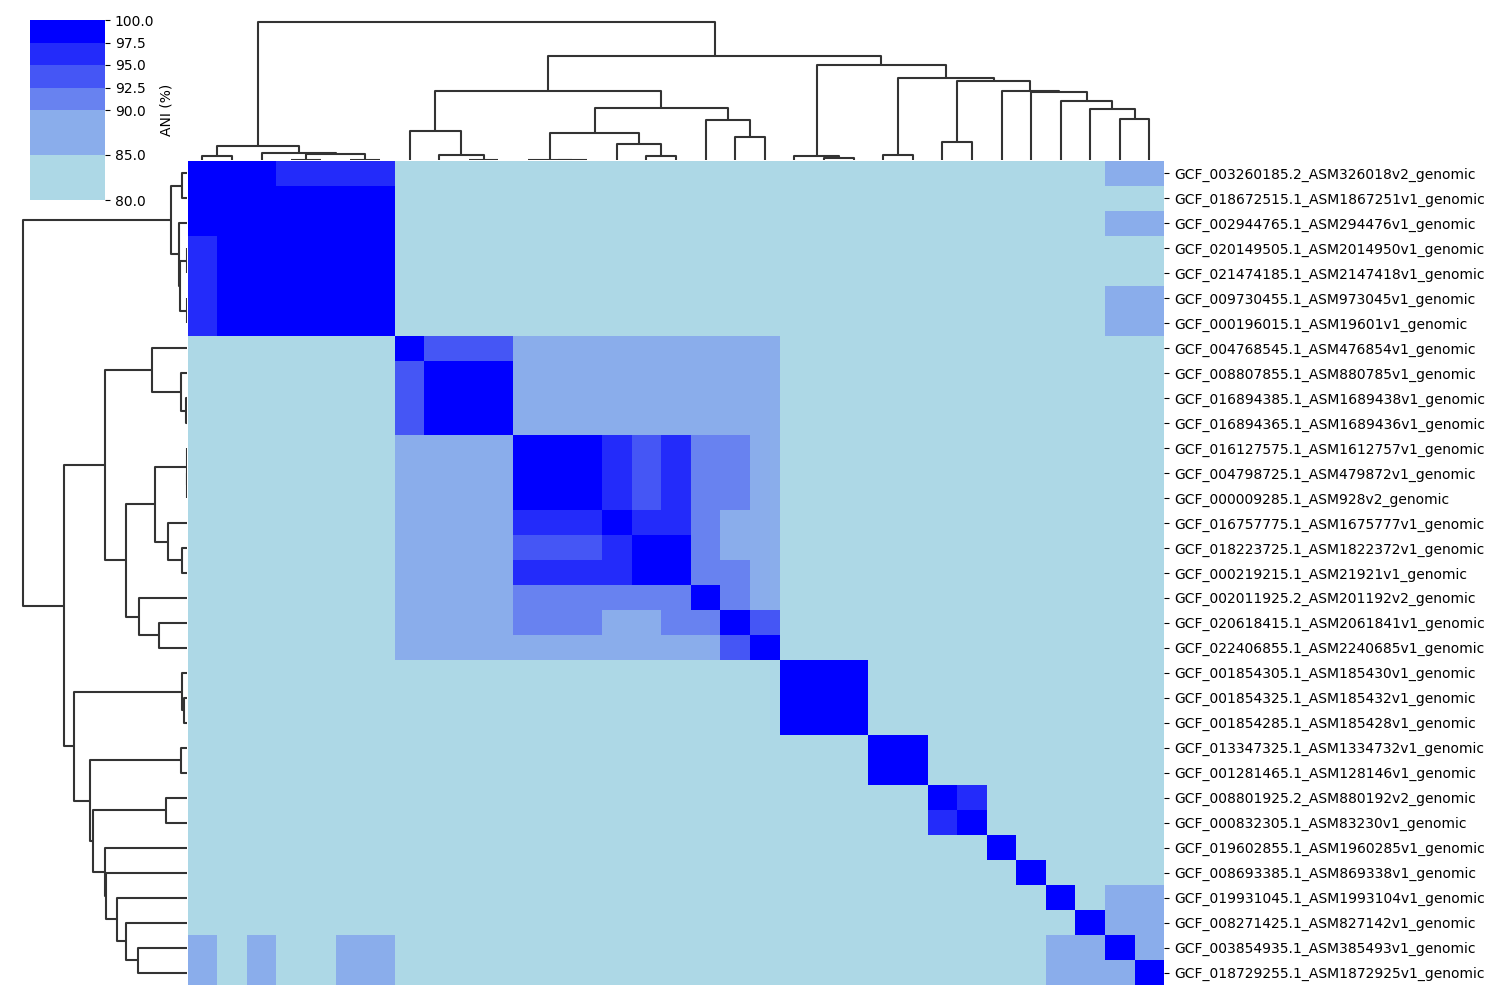
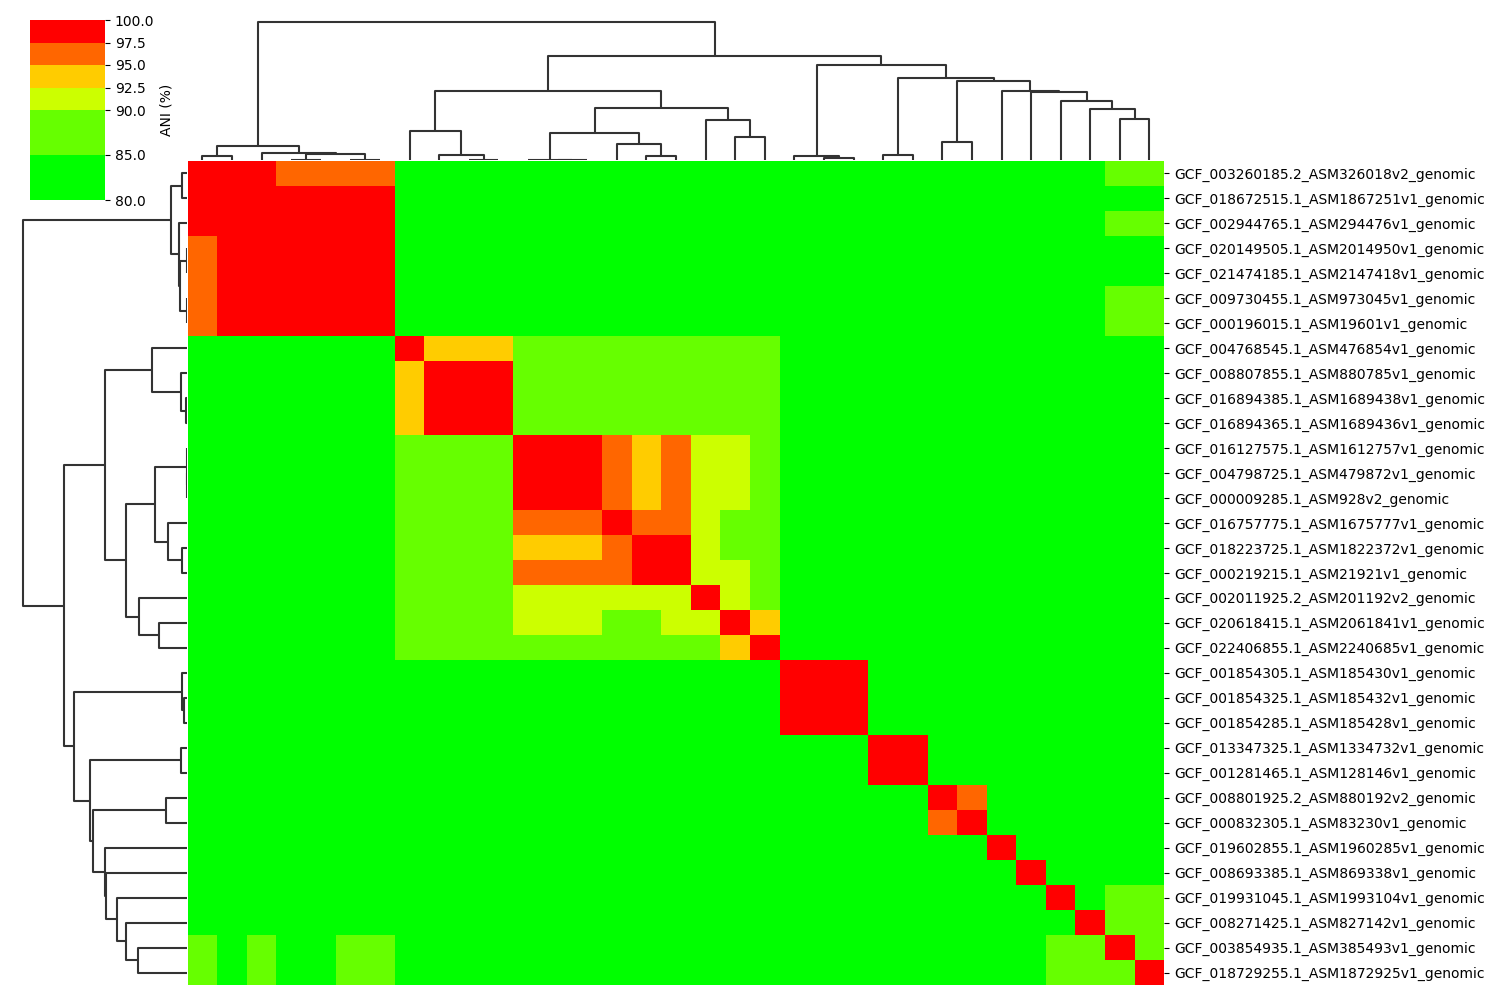
Update README

diff --git a/README.md b/README.md
@@ -109,10 +109,10 @@ If you want to try it for yourself, click [here](https://github.com/moshi4/ANIcl
 
 ![ANIclustermap.png](https://raw.githubusercontent.com/moshi4/ANIclustermap/main/images/gallery/03_ANIclustermap.png)  
 
-**Change cmap_ranges, cmap_colors paramter:**
+**Change cmap_ranges paramter:**
 
     ANIclustermap -i ./normal_dataset -o ./ANIclustermap_result \ 
-                  --fig_width 15 --cmap_ranges 80,85,90,92.5,95,97.5,100 --cmap_colors lightblue,blue
+                  --fig_width 15 --cmap_ranges 80,85,90,92.5,95,97.5,100
 
 ![ANIclustermap.png](https://raw.githubusercontent.com/moshi4/ANIclustermap/main/images/gallery/04_ANIclustermap.png)  
 
